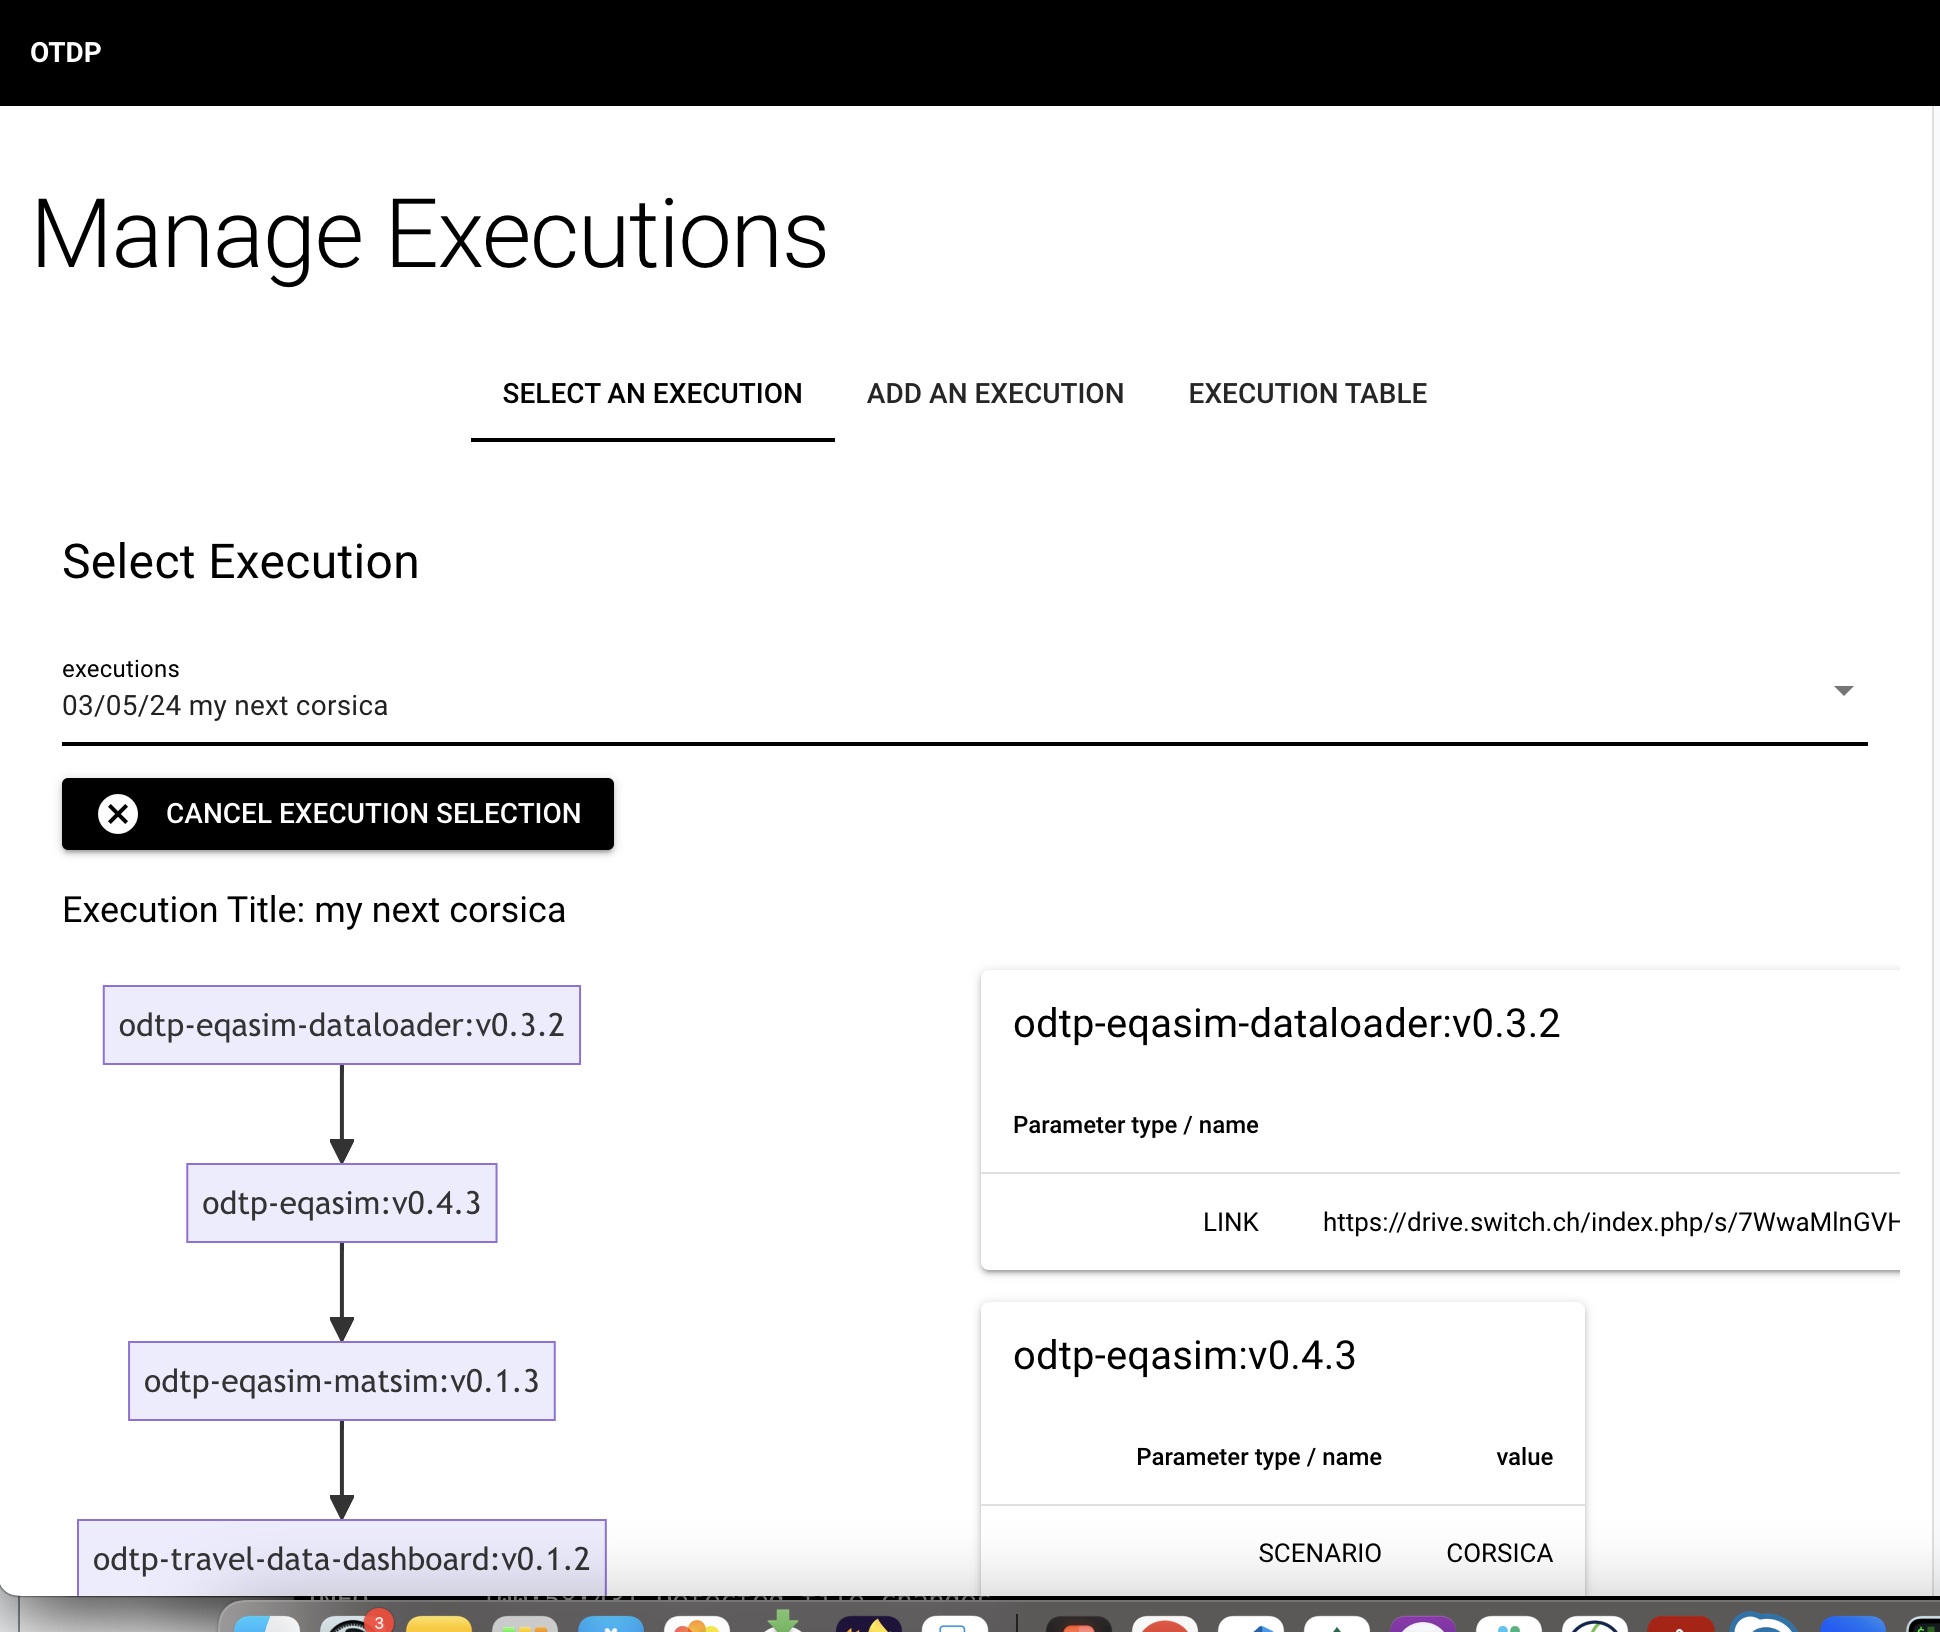
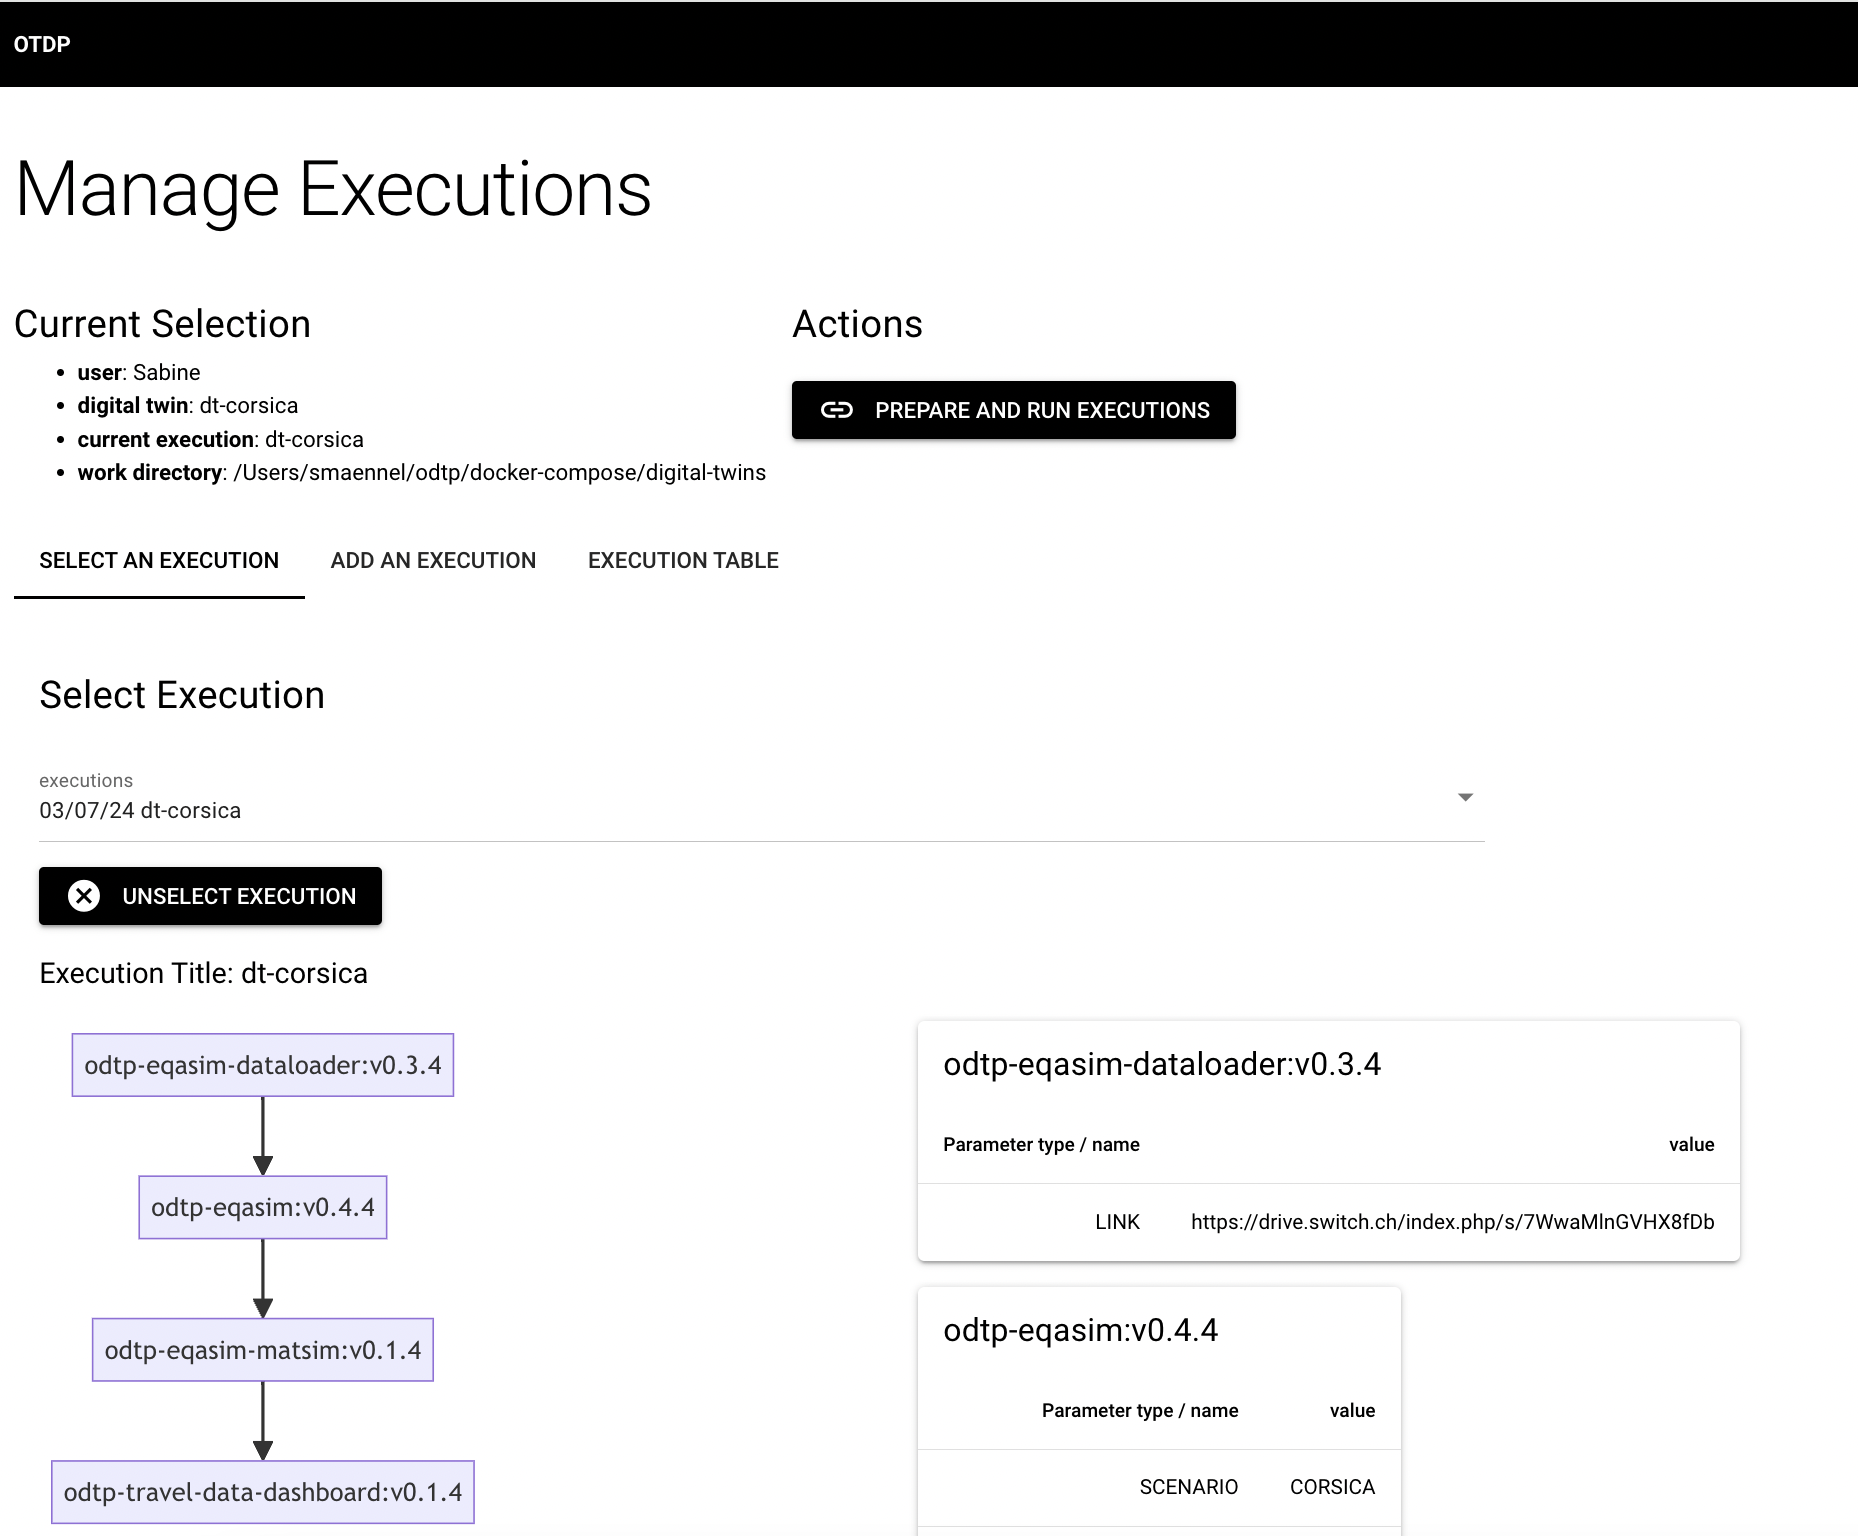
chore(tutorial: execution page): update gui tutorial (#46)

diff --git a/docs/tutorials/executions.md b/docs/tutorials/executions.md
@@ -11,6 +11,50 @@
     component-example_0.1.0 --> travel_dashboard_0.2.1;
     ``` 
 
+On this page you can manage your executions, specify and save them, so that they can be later 
+selected for running them.    
+
+## List executions
+
+The Execution page assumes that you have selected both a user and a digital twin to work on.
+You can go to the "EXECUTION TABLE" Tab and list all executions that belong to the digital twin
+
+=== "Dashboard GUI"
+
+    In the Dashboard you are guided through the process of creating an execution step by step: 
+
+    ![Dashboard List executions](../static/tutorials/executions/list-executions.png){ width="800" }
+
+=== "Command Line CLI"
+
+    On the command you can only list all executions for a digital twin: 
+
+    ```sh
+    odtp db executions_for_digitalTwin \
+    --dt-id 65c3ab02b4afbca32db08738 
+    ```   
+
+## Select execution
+
+Existing executions can be selected in order to run them: when you select an execution you see a 
+button: "PREPARE AND RUN EXECUTION": click on it and you will get to a run page where you can run the
+execution: see [run executions](run-executions.md)
+
+=== "Dashboard GUI"
+
+    In the Dashboard you are guided through the process of creating an execution step by step: 
+
+    ![Dashboard Add execution](../static/tutorials/executions/select-execution.png){ width="800" }
+
+=== "Command Line CLI"
+
+    In the command line you can print the execution object as it is stored in the mongodb:
+
+    ```sh
+    odtp db get executions_for_digitalTwin \
+    --dt-id 65c3ab02b4afbca32db08738 
+    ```
+
 ## Add an execution
 
 An execution consists of components and can have extra port mappings and parameters.
@@ -25,28 +69,48 @@ An execution consists of components and can have extra port mappings and paramet
     - Components ports should be separated by `+`. i.e. `8763:3000+8501:8501`
     - Place as many `+` as connections between components. If ports are not being used in the first, and second component: i.e. `++8501:8501`
 
+In the GUI a form is offered to guide you through the process of specifying all these elements.
+In the CLI you have to add all elements yourself: 
+
+In order to better understand these workflows it is best to set up workflow repos as we did in some of our use cases:
+
+- [dt-example workflow](https://github.com/odtp-org/dt-example)
+- [dt-corsica-mobility](https://github.com/odtp-org/dt-corsica-mobility)
+
+These repos help you to setup executions in both CLI and the GUI
 
 === "Dashboard GUI"
 
-    In the Dashboard you are guided through the process of creating an execution step by step:
+    In the Dashboard you are guided through the process of creating an execution step by step: 
 
-    First you select the number of steps, the maximum number of ports and the maximum number of parameters per step. 
+    First you need to name your execution:
 
-    ![Dashboard Add execution](../static/tutorials/executions/add-execution.png){ width="800" }
+    ![Dashboard Add execution](../static/tutorials/executions/name-execution.png){ width="800" }
 
-    ![Dashboard Add execution](../static/tutorials/executions/add-execution2.png){ width="800" }
+    Select component versions as workflow steps. The components and versions that you can use here must have
+    been added at the components page, see [components and versions](components-and-versions.md).
 
-    ![Dashboard Add execution](../static/tutorials/executions/add-execution3.png){ width="800" }
+    ![Dashboard Add execution](../static/tutorials/executions/select-component-versions.png){ width="800" }
 
-    ![Dashboard Add execution](../static/tutorials/executions/add-execution4.png){ width="800" }
+    Next you may add parameters from file. In a later step you can also overwrite those initial settings from file.
 
-    ![Dashboard Add execution](../static/tutorials/executions/add-execution5.png){ width="800" }
+    ![Dashboard Add execution](../static/tutorials/executions/pick-parameters-from-file.png){ width="800" }
 
-    ![Dashboard Add execution](../static/tutorials/executions/add-execution6.png){ width="800" }
+    So here you can overwrite parameters, delete rows or add additional parameters:
 
-    You will see your execution, now you can save it.    
+    ![Dashboard Add execution](../static/tutorials/executions/overwrite-parameters.png){ width="800" }
 
-    ![Dashboard Add execution](../static/tutorials/executions/add-execution7.png){ width="800" }
+    Next you need to add port mappings: this is only necessary for persistent components and for the 
+    mapping you need to know the component port, that was registered with the component, see 
+    [components and versions](components-and-versions.md).
+
+    ![Dashboard Add execution](../static/tutorials/executions/add-execution-ports.png){ width="800" }
+
+    Check your execution and save it if everything is correct. If not, you can walk back through the 
+    steps and correct your settings without loosing any information that you already correctly.
+    
+    ![Dashboard Save the execution](../static/tutorials/executions/save-execution.png){ width="800" }
+    Once the execution is save you can run it. See above on Selecting an execution.
 
 === "Command Line CLI"
 
